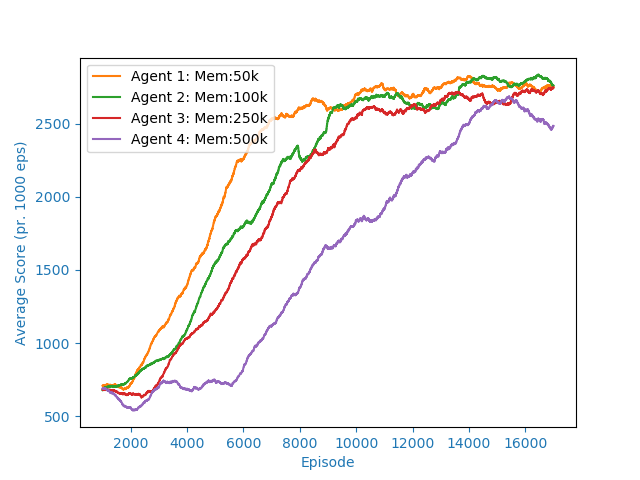
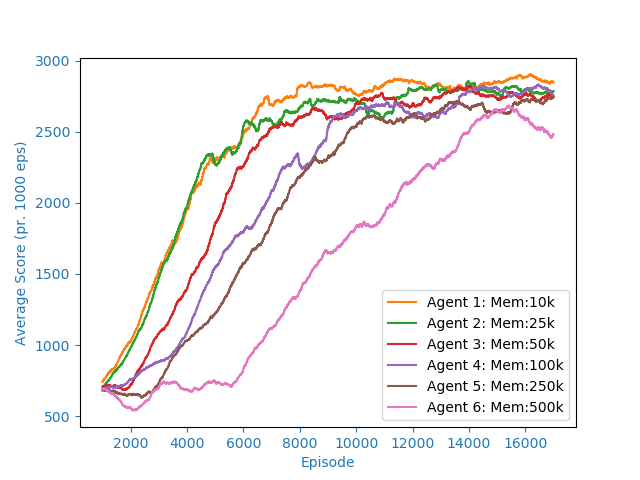
More mem  plots

diff --git a/mario_dqn/plots/compare_multiple.py b/mario_dqn/plots/compare_multiple.py
@@ -3,7 +3,7 @@ import numpy as np
 import gym
 import json
 
-def compare(paths, legends, metric, label, test, limit=10000, avg_n=500):
+def compare(paths, legends, metric, label, test, limit=10000, avg_n=500, leg_pos='high'):
 
     out_path = 'CompareMult_'+metric+'_'+str(limit)+'_'+test+'.png'
     if avg_n != 500:    
@@ -50,7 +50,7 @@ def compare(paths, legends, metric, label, test, limit=10000, avg_n=500):
     ax.tick_params(axis='x', colors="C0")
     ax.tick_params(axis='y', colors="C0")
 
-    if len(paths) == 3:
+    if leg_pos == 'low':
         ax.legend(loc='lower right')#, frameon=False)
     else:
         ax.legend(loc='upper left')#, frameon=False)
@@ -73,7 +73,7 @@ path3 = '/work/henriksv/code/mario-data-collection/mario_dqn/mario_DDQN_m100k_lr
 path4 = '/work/henriksv/code/mario-data-collection/mario_dqn/mario_DDQN_m100k_ed0.99995-2/mario_DDQN_m100k_ed0.99995-2_episodes.json'
 #m100k_lr0.001_ed0.99995 - 14k
 path5 = '/work/henriksv/code/mario-data-collection/mario_dqn/mario_DDQN_m100k_lr0.001_ed0.99995/mario_DDQN_m100k_lr0.001_ed0.99995_episodes.json'
-
+"""
 paths = [path1, path2, path3, path4, path5]
 legends = ['Agent 1: LR:0.00001', 'Agent 2: LR:0.00005', 'Agent 3: LR:0.0001', 'Agent 4: LR:0.00025', 'Agent 5: LR:0.001']
 label = 'Finish Rate (pr. 500 eps)'
@@ -88,16 +88,17 @@ label = 'Average Score (pr. 1000 eps)'
 compare(paths, legends, 'scores', label,test, 10000, 1000)
 
 paths = [path1, path2, path3]
+leg_pos = 'low'
 legends = ['Agent 1: LR:0.00001', 'Agent 2: LR:0.00005', 'Agent 3: LR:0.0001', 'Agent 4: LR:0.00025', 'Agent 5: LR:0.001']
 label = 'Finish Rate (pr. 500 eps)'
-compare(paths, legends, 'success', label,test, 40000)
+compare(paths, legends, 'success', label,test, 40000, leg_pos)
 label = 'Finish Rate (pr. 1000 eps)'
-compare(paths, legends, 'success', label,test, 40000, 1000)
+compare(paths, legends, 'success', label,test, 40000, 1000, leg_pos)
 
 label = 'Average Score (pr. 500 eps)'
-compare(paths, legends, 'scores', label,test, 40000)
+compare(paths, legends, 'scores', label,test, 40000, leg_pos)
 label = 'Average Score (pr. 1000 eps)'
-compare(paths, legends, 'scores', label,test, 40000, 1000)
+compare(paths, legends, 'scores', label,test, 40000, 1000, leg_pos)"""
 
 #Compare memory
 
@@ -107,7 +108,13 @@ path6 = '/work/henriksv/code/mario-data-collection/mario_dqn/mario_DDQN_m50k_lr0
 path7 = '/work/henriksv/code/mario-data-collection/mario_dqn/mario_DDQN_m250k_lr0.00005/mario_DDQN_m250k_lr0.00005_episodes.json'
 #m500k
 path8 = '/work/henriksv/code/mario-data-collection/mario_dqn/mario_DDQN_m500k_lr0.00005/mario_DDQN_m500k_lr0.00005_episodes.json'
+#m10k
+path9 = '/work/henriksv/code/mario-data-collection/mario_dqn/mario_DDQN_m10k_lr0.00005/mario_DDQN_m10k_lr0.00005_episodes.json'
+#m25k
+path10 = '/work/henriksv/code/mario-data-collection/mario_dqn/mario_DDQN_m25k_lr0.00005/mario_DDQN_m25k_lr0.00005_episodes.json'
+
 test = 'mem'
+"""
 paths = [path6, path2, path7, path8]
 legends = ['Agent 1: Mem:50k', 'Agent 2: Mem:100k', 'Agent 3: Mem:250k', 'Agent 4: Mem:500k']
 
@@ -119,8 +126,22 @@ compare(paths, legends, 'success', label,test, 17000, 1000)
 label = 'Average Score (pr. 500 eps)'
 compare(paths, legends, 'scores', label,test, 17000)
 label = 'Average Score (pr. 1000 eps)'
-compare(paths, legends, 'scores', label,test, 17000, 1000)
+compare(paths, legends, 'scores', label,test, 17000, 1000)"""
 
+paths = [path9, path10, path6, path2, path7, path8]
+legends = ['Agent 1: Mem:10k', 'Agent 2: Mem:25k', 'Agent 3: Mem:50k', 'Agent 4: Mem:100k', 'Agent 5: Mem:250k', 'Agent 6: Mem:500k']
+
+n = 17000
+pos = 'low'
+label = 'Finish Rate (pr. 500 eps)'
+compare(paths, legends, 'success', label,test, n, leg_pos=pos)
+label = 'Finish Rate (pr. 1000 eps)'
+compare(paths, legends, 'success', label,test, n, 1000, leg_pos=pos)
+
+label = 'Average Score (pr. 500 eps)'
+compare(paths, legends, 'scores', label,test, n, leg_pos=pos)
+label = 'Average Score (pr. 1000 eps)'
+compare(paths, legends, 'scores', label,test, n, 1000, leg_pos=pos)
 
 
 
